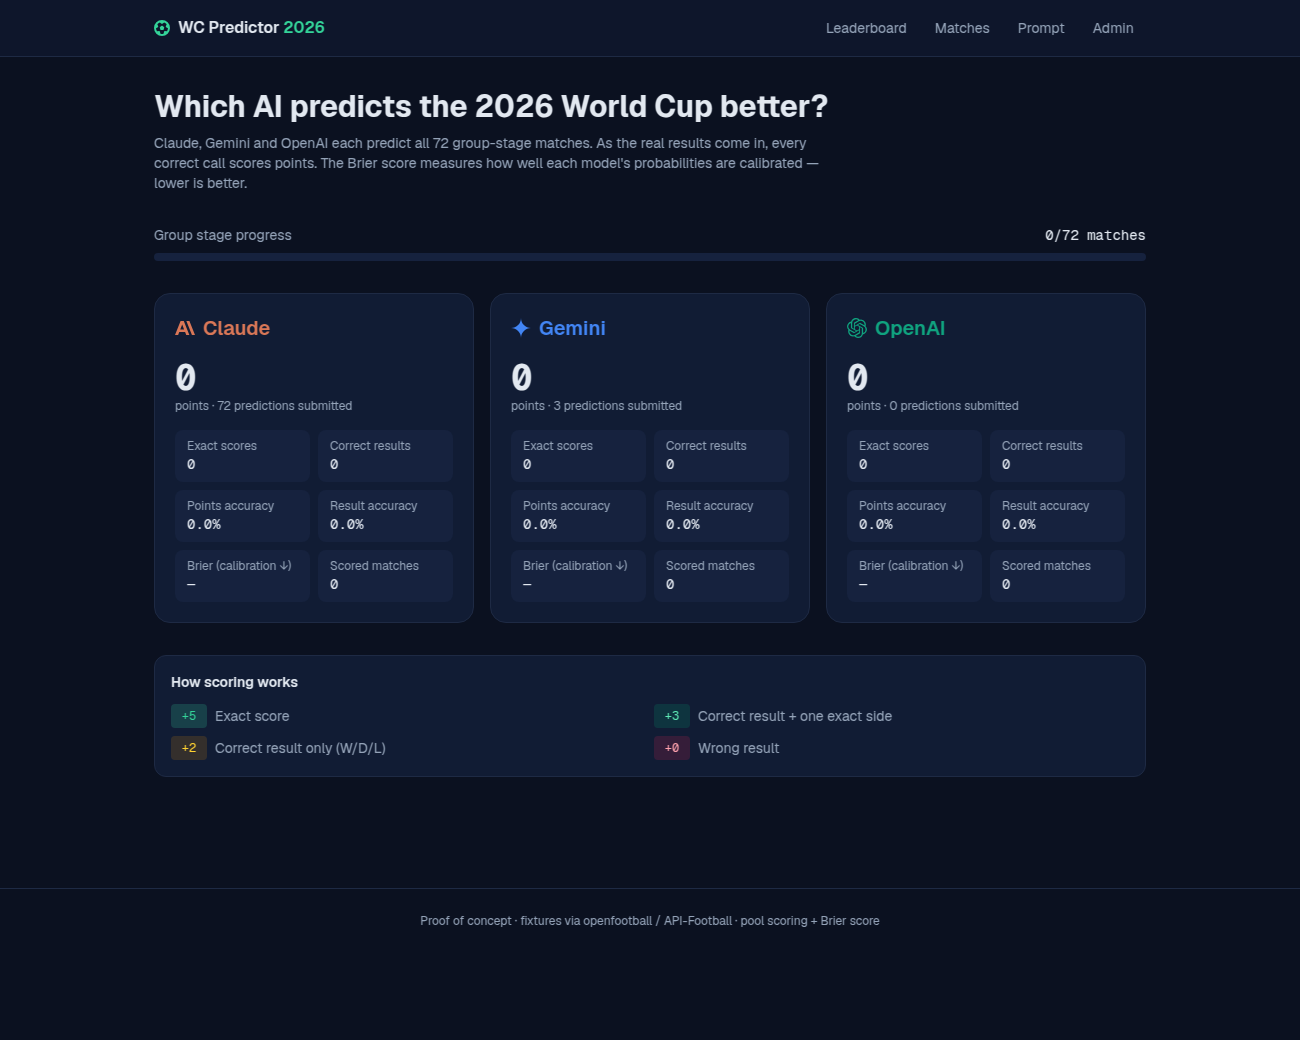
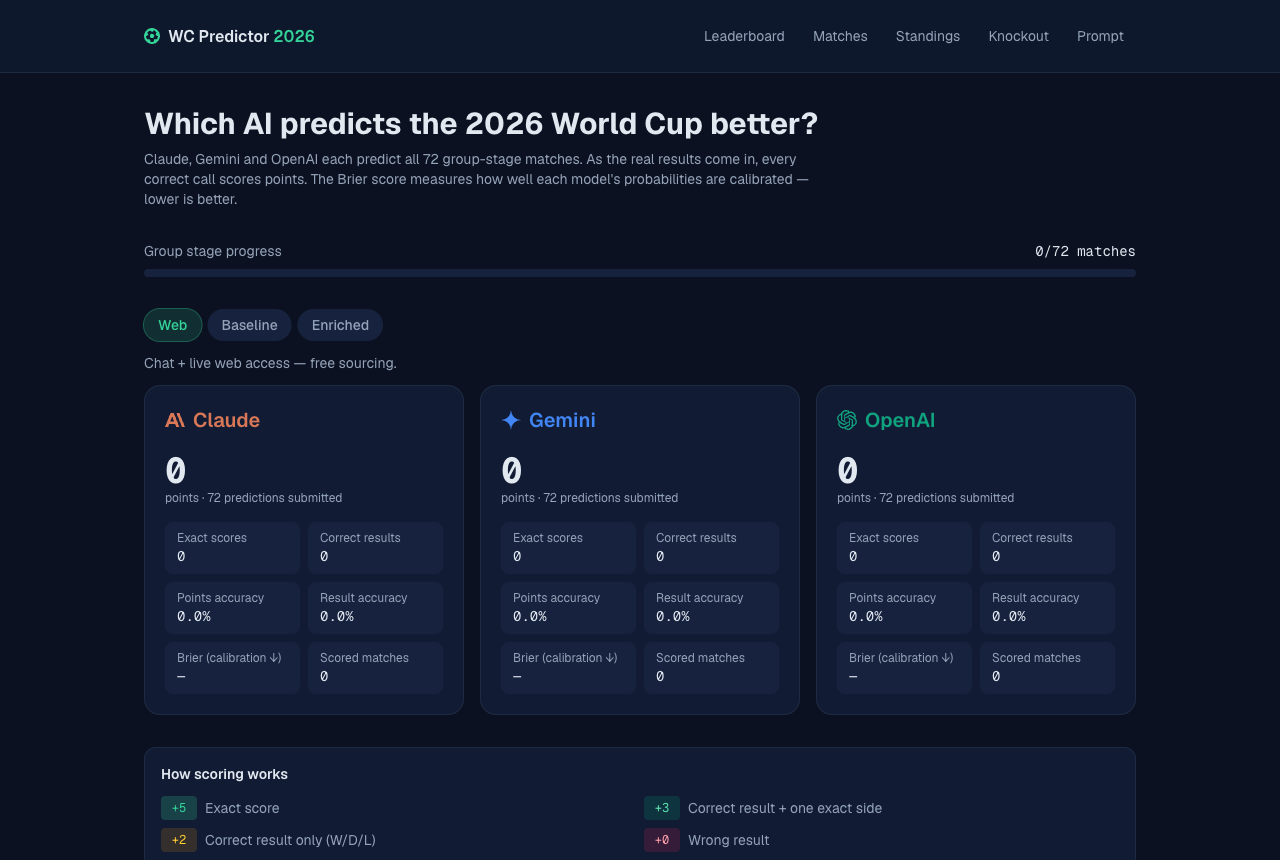
docs: refresh screenshots to the redesigned UI + knockout/standings gallery

diff --git a/README.md b/README.md
@@ -12,6 +12,12 @@ standardized dataset are versioned in this repository.
 
 ![Leaderboard — Claude vs Gemini vs OpenAI](docs/screenshot.png)
 
+| Predicted standings                                                                | Predicted knockout bracket                                                   |
+| ---------------------------------------------------------------------------------- | ---------------------------------------------------------------------------- |
+| ![FIFA-style group standings implied by each model](docs/screenshot-standings.png) | ![Knockout bracket to the champion, per model](docs/screenshot-knockout.png) |
+
+![Group-stage matches with flags and per-model predictions](docs/screenshot-matches.png)
+
 ## Experiment design
 
 Each model runs under three conditions (_arms_), isolating where the predictive skill
@@ -73,7 +79,9 @@ guesses.
 - `/matches` — all 72 fixtures, flags, per-model predictions, results, points.
 - `/standings` — FIFA-style group tables: actual vs the final tables implied by each
   model's predicted scorelines, with qualification cutoffs (top 2 + best 8 thirds).
-- `/knockout` — each model's predicted bracket to the champion, with Golden Boot pick.
+- `/knockout` — the **actual** bracket (official placeholders that fill in as the
+  tournament progresses) plus each model's predicted bracket to the champion, with
+  Golden Boot pick.
 - `/prompt` — every prompt variant and every raw model run, verbatim.
 - `/admin` — import runs, sync results, manual override (token-gated).
 